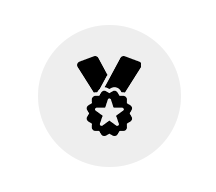
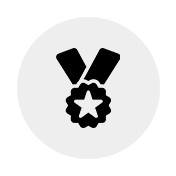
A Mercosul - Mobile

Changed region(s): [[0.3125, 0.2557, 0.6818, 0.7386], [0.4545, 0.3125, 0.483, 0.3693]]

diff --git a/wp-content/themes/mercosul/style.css b/wp-content/themes/mercosul/style.css
@@ -242,6 +242,8 @@ div.row.logo-redondo img
 	width: 280px;
 }
 
+section.mercosul .features { margin-top: 10px; }
+
 section.mercosul .features h3
 {
 	color: #08365c;
@@ -284,7 +286,10 @@ section.mercosul .conteudo .mais
 section.mercosul .features img
 {
     cursor: pointer;
+    display: inline;
 }
+
+section.mercosul .box { text-align: center; }
 
 /********************************************************** Depoimentos */
 
@@ -699,6 +704,18 @@ section.contato .google-maps iframe
 	    border-radius: 1px;
 	    background-color: #888; 
 	    margin-bottom: 5px;
+	}
+
+	/****************************************** Seção "Mercosul" */
+
+	section.mercosul .features h3
+	{
+		font-size: 15px;
+	}
+
+	section.mercosul .features h3.ferramentas
+	{
+		margin-left: -12px;
 	}
 
 }

diff --git a/wp-content/themes/mercosul/sections/mercosul.php b/wp-content/themes/mercosul/sections/mercosul.php
@@ -17,28 +17,28 @@
 			<div class="col-md-2"></div>
 			<div class="col-md-8">
 				
-				<div class="col-md-4">
+				<div class="col-xs-4">
 					<div class="box">
 						
-						<img data-section="qualidade" src="<?php bloginfo('template_url'); ?>/img/sb1.png" alt="">
+						<img class="img-responsive" data-section="qualidade" src="<?php bloginfo('template_url'); ?>/img/sb1.png" alt="">
 
 						<h3>QUALIDADE</h3>
 
 					</div>
 				</div>
-				<div class="col-md-4">
+				<div class="col-xs-4">
 					<div class="box">
 						
-						<img data-section="ferramentas" src="<?php bloginfo('template_url'); ?>/img/sb2.png" alt="">
+						<img class="img-responsive" data-section="ferramentas" src="<?php bloginfo('template_url'); ?>/img/sb2.png" alt="">
 
-						<h3>FERRAMENTAS</h3>
+						<h3 class="ferramentas">FERRAMENTAS</h3>
 
 					</div>
 				</div>
-				<div class="col-md-4">
+				<div class="col-xs-4">
 					<div class="box">
 						
-						<img data-section="suporte" src="<?php bloginfo('template_url'); ?>/img/sb3.png" alt="">
+						<img class="img-responsive" data-section="suporte" src="<?php bloginfo('template_url'); ?>/img/sb3.png" alt="">
 
 						<h3>SUPORTE</h3>
 
